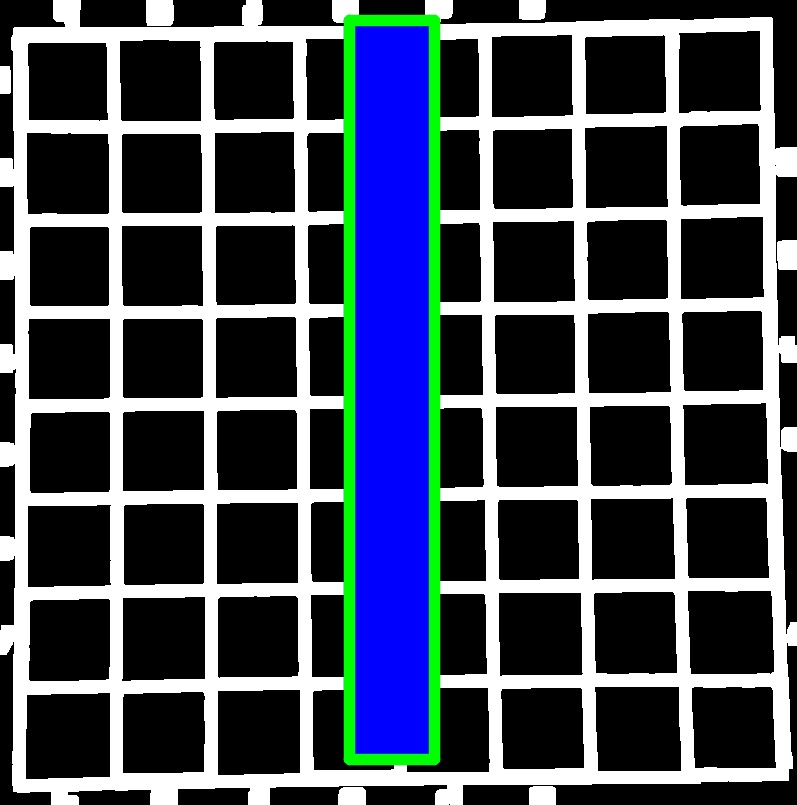
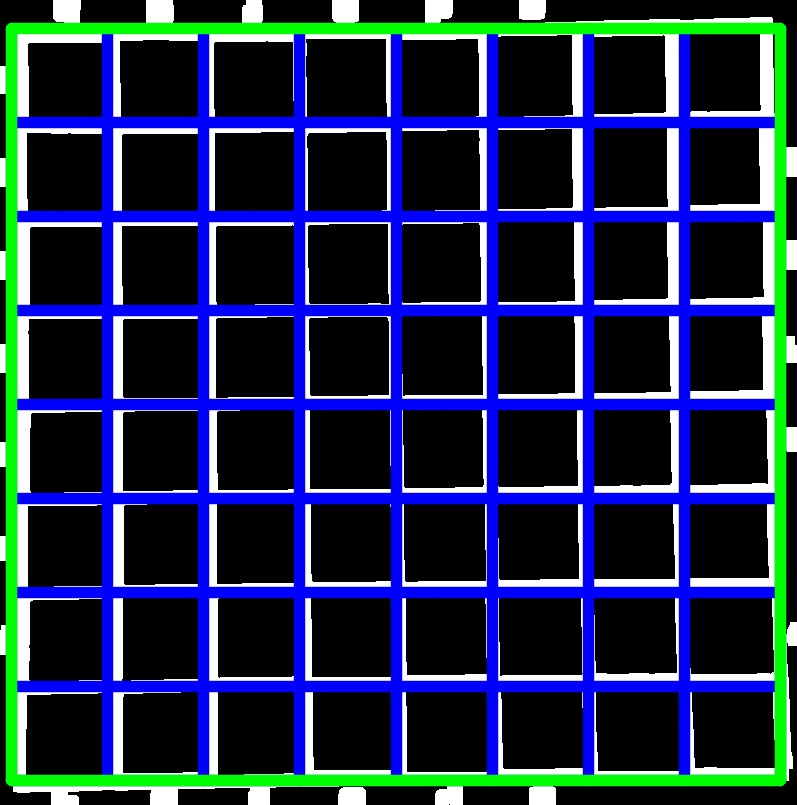
Data Collection

diff --git a/src/data_Collection.py b/src/data_Collection.py
@@ -1,0 +1,136 @@
+import os
+import pickle
+import cv2 as cv
+import numpy as np
+import picamera
+import picamera.array
+import time
+
+CWD = '/home/pi/Desktop/ChessMate/'
+train_image_folder = CWD + 'data/train/'
+test_image_path = CWD + 'data/test_images/test_image0.JPG'
+
+
+picklepath = CWD + 'data/pickle/chessboard_pickle.p'
+
+def roi_filter(img):
+
+	rows, cols = img.shape[:2]
+
+
+	y1 = int( rows * 0.055 )
+	y2 = int( rows * 0.80 )
+
+	x1 = int( cols * 0.305 )
+	x2 = int( cols * 0.72 )
+
+	img = img[ y1:y2, x1:x2]
+	return img
+
+def img_pipeline(img):
+	img = roi_filter(img)
+	img = cv.cvtColor(img, cv.COLOR_BGR2RGB)
+
+	return img
+
+#LOADS THE PREDEFINED DICTIONARY OF SQUARE POSITIONS
+def load_dictionary(picklepath = picklepath):
+	
+	with open(picklepath, mode = 'rb') as f:
+		file = pickle.load(f)
+		chessboard_dictionary = file['chessboard_pickle']
+	return chessboard_dictionary
+
+
+
+def parse_full_image(img, chessboard_dictionary):
+	
+	letters = ['a', 'b', 'c', 'd', 'e', 'f', 'g', 'h']
+	image_list = [[] for i in range(len(chessboard_dictionary))]
+
+	for r in range(0, 8):
+		alpha_id = letters[r]
+		for c in range(0,8):
+			num_id = str(c + 1)
+			position_string = alpha_id + num_id
+			position = chessboard_dictionary.get(position_string)
+			image_list[c + r * 8] = cropimage(img, position)
+
+
+	return image_list
+
+
+
+
+def cropimage(img, position, buffer = 25):
+	
+	x1, y1, x2, y2 = position
+
+	y1 = y1 - buffer
+	if(y1 < 0): y1 = 0
+
+	y2 = y2 + buffer
+	
+	x1 = x1 - buffer
+	if(x1 < 0): x1 = 0
+
+	x2 = x2 + buffer
+
+	cropped_image = img[y1:y2, x1:x2]
+	
+	print(position)
+	print(x1, y1, x2, y2)
+
+	return cropped_image
+
+
+
+def store_images(imgs, image_folder, prefix, suffix, zeros = 5):
+	
+	i = 0 
+	for i in range (len(imgs)):
+		num = str(i).zfill(zeros)
+		filename = image_folder + prefix + num + suffix
+		cv.imwrite(filename, imgs[i])
+
+
+def take_raw_image():
+	h = 1080
+	w = 1920
+	i = 0
+	prefix = 'test_image_'
+	suffix = '.JPG'
+
+	test_image = cv.imread(test_image_path)
+
+
+	dictionary = load_dictionary()
+
+	with picamera.PiCamera() as camera:
+		camera.start_preview()
+		time.sleep(2)
+		
+		camera.resolution = (w, h)
+
+		while(i < 1):
+
+			with picamera.array.PiRGBArray(camera) as stream:
+
+				camera.capture( stream, format='rgb' )
+
+				output = stream.array
+
+				image = img_pipeline(output)
+
+				images = parse_full_image(test_image, dictionary)
+
+				store_images(images, train_image_folder, prefix, suffix)
+
+				
+			i+=1
+				
+	camera.close()
+
+
+if __name__ == "__main__":
+	take_raw_image()

diff --git a/src/Init_Chessboard_Dictionary.py b/src/Init_Chessboard_Dictionary.py
@@ -129,8 +129,8 @@ def rect_parse(rectangle, splits, thickness = 10):
 	square_count = (len(splits) + 1) * (len(splits) + 1)
 	rectangle_list = [[] for i in range(square_count) ]
 	x1, y1, x2, y2 = rectangle
-	y_step = abs(y2 - y1)// 8
-	x_step = abs(x2 - x1)// 8
+	y_step = abs(y2 - y1)/ 8
+	x_step = abs(x2 - x1)/ 8
 	v_lines = []
 	h_lines = []
 
@@ -139,19 +139,19 @@ def rect_parse(rectangle, splits, thickness = 10):
 		y1_new = y1 + i * y_step + y_step # h line count is 7 + 2 = 9
 		x1_new = x1 + i * x_step # v line count is 7
 
-		h_lines.append( y1_new )
-		v_lines.append( x1_new )
+		h_lines.append( int( round(y1_new) ) )
+		v_lines.append( int( round(x1_new) ) )
 
 	for r in range (0, len(splits) + 1):
 
-		y2_new = ( r + 1 ) * y_step + y1
-		y1_new = r * y_step + y1
+		y2_new = int(round(( r + 1 ) * y_step + y1))
+		y1_new = int(round(r * y_step + y1))
 
 		for c in range (0, len(splits) + 1):
 
 			index = ( r * ( len(splits) + 1 ) ) + c
-			x2_new = ( c + 1 ) * x_step + x1
-			x1_new = c * x_step + x1
+			x2_new = int(round(( c + 1 ) * x_step + x1))
+			x1_new = int(round(c * x_step + x1))
 
 			rectangle_list[ index ] = ( x1_new, y1_new, x2_new, y2_new )
 	return (rectangle_list, v_lines, h_lines) 
